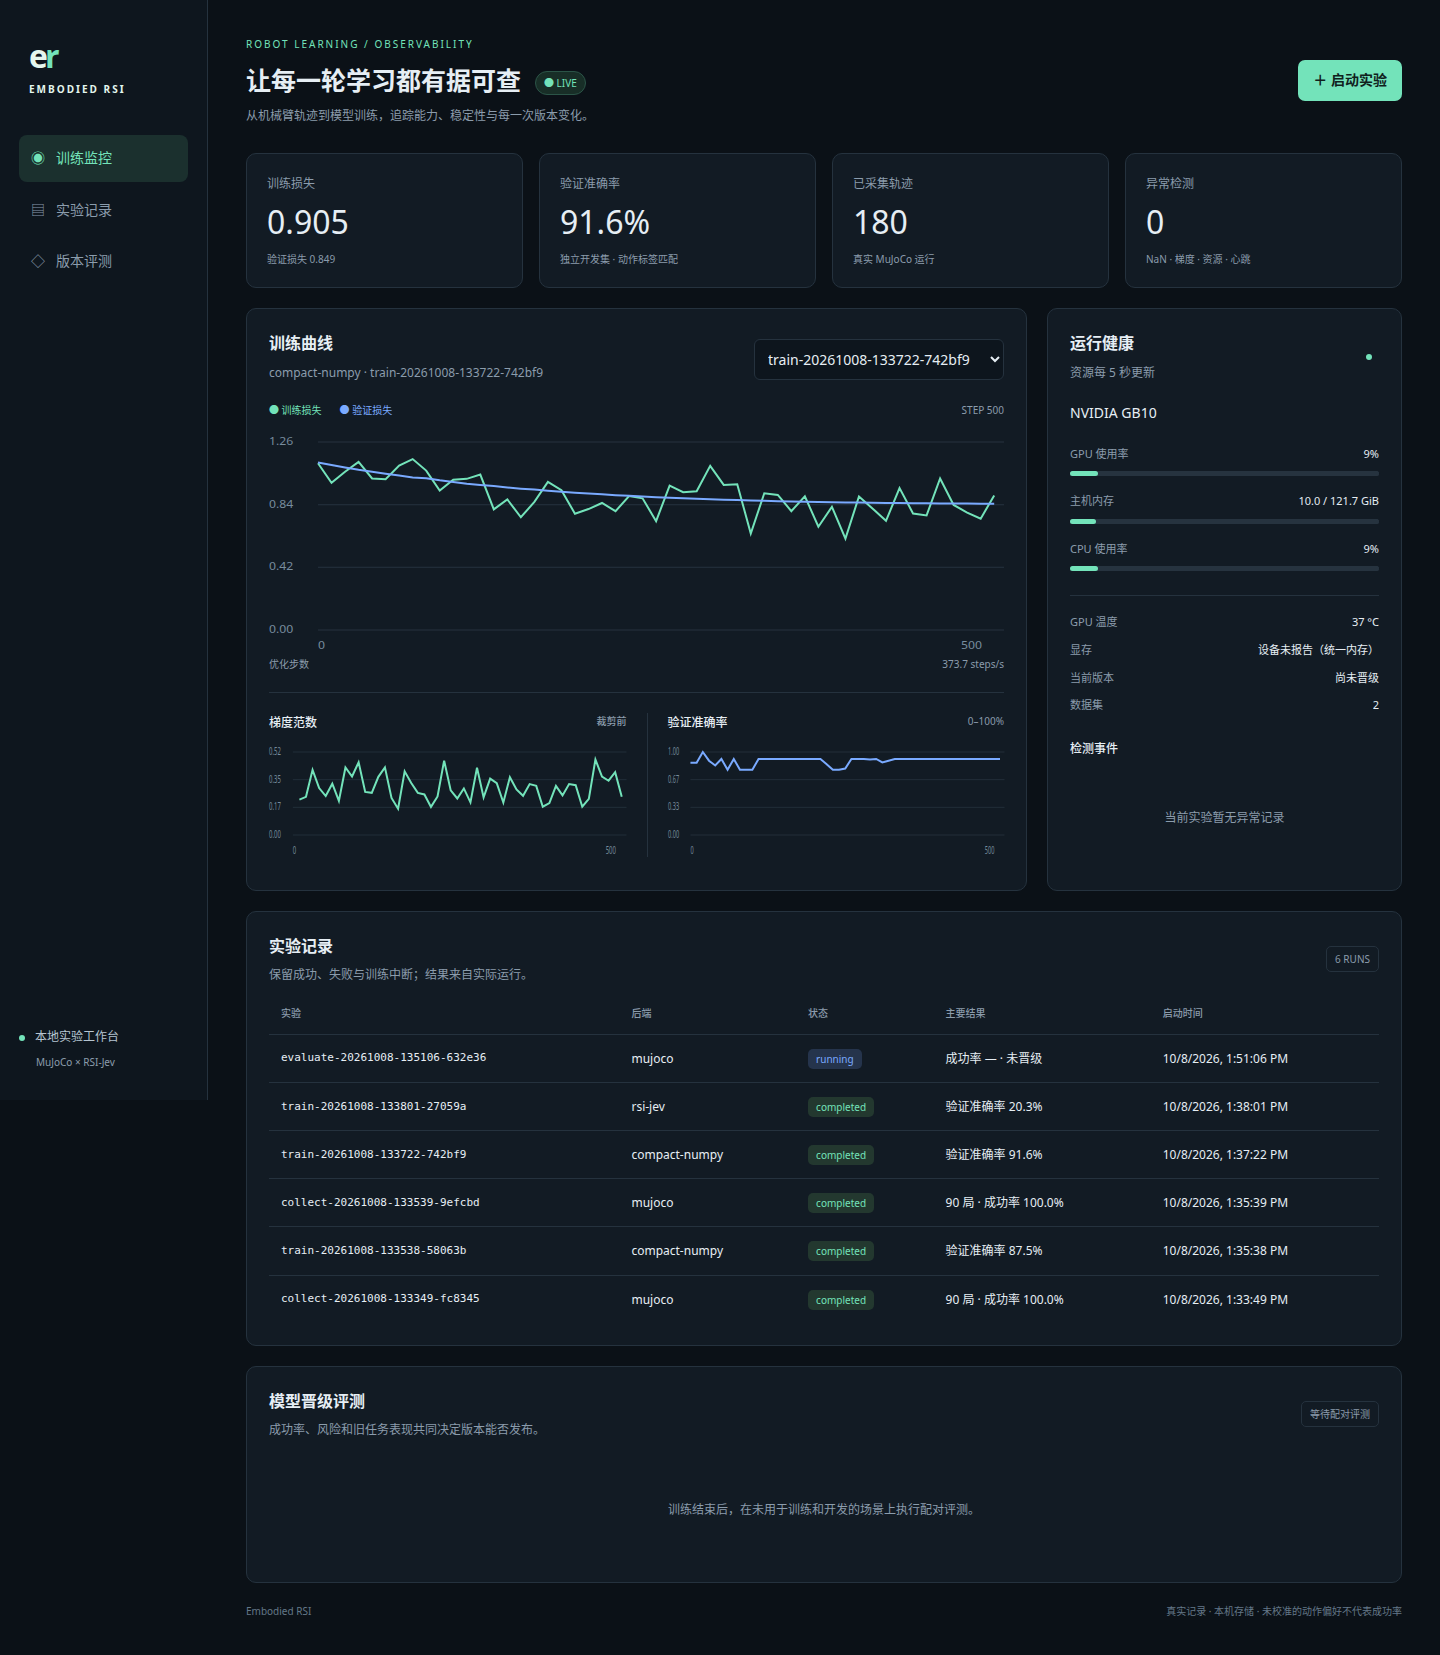
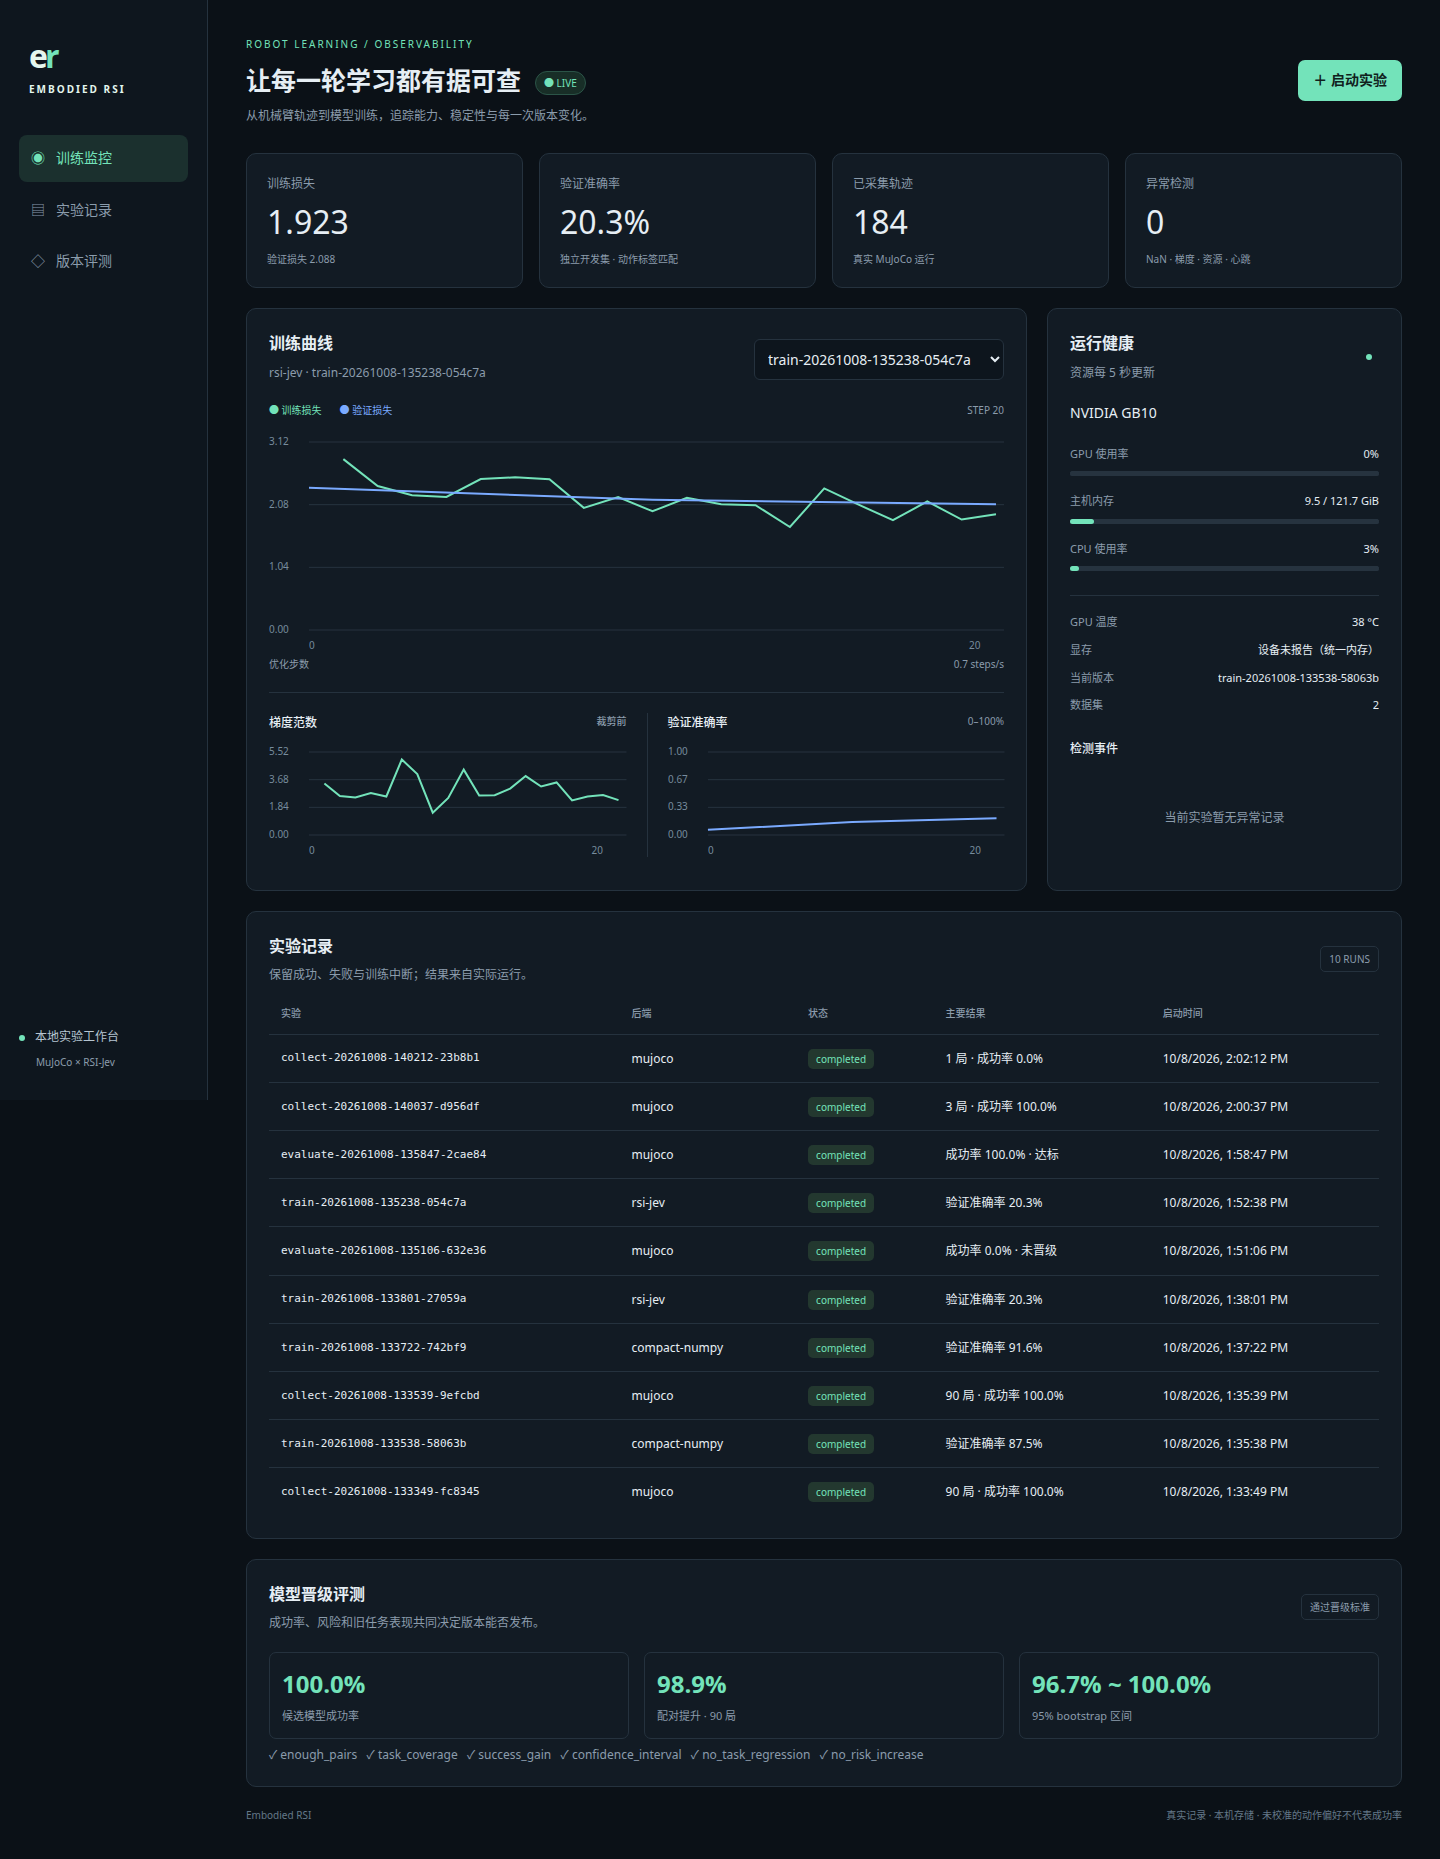
Record paired robot evaluations and verified RSI GPU training

diff --git a/docs/VALIDATION.md b/docs/VALIDATION.md
@@ -21,6 +21,19 @@
 
 第二轮开发集与第一轮不同，不能直接将 87.50% 与 91.62% 当成同一测试集的提升。
 
+## 首版模型与未训练基线：通过晋级
+
+另一组未见场景种子 20000–20029，三任务共 90 对。未训练基线为零权重的 Compact 模型，候选顺序按种子重排。
+
+| 指标 | 未训练基线 | 第一轮 Compact |
+|---|---:|---:|
+| 成功 | 1/90 | 90/90 |
+| 碰撞 | 0 | 0 |
+| 失抓 | 14 | 0 |
+| 动作拒绝 | 70 | 0 |
+
+成功率提升 98.89 个百分点，配对 bootstrap 95% 区间 [96.67, 100] 个百分点。三个任务各 30/30 完成，第一轮模型通过全部门槛，并登记为本机 `champion.json`。这个成绩仅证明小范围结构化状态／固定技能协议中的学习效果。[机器可读报告](results/paired-baseline.json)
+
 ## 第二轮版本的独立任务评测：拒绝晋级
 
 场景种子 10000–10029，每任务 30 个配对，共 90 对；相同控制器、候选和 20 步预算。
@@ -33,6 +46,8 @@
 | 碰撞 / 失抓 / 拒绝 | 0 / 0 / 0 | 0 / 0 / 0 |
 
 配对提升 -100 个百分点，bootstrap 95% 区间 [-100, -100] 个百分点。候选违反成功率及旧任务退化门槛，**未晋级**。
+
+[机器可读失败报告](results/paired-regression.json)
 
 主要失败模式：到达物体上方后选择抓取，没有先下降；空抓后重复抓取直到停滞。这个结果说明一步标签准确率不足以替代任务级成功率，失败记录必须保留。后续实验应在开发场景做闭环诊断和状态纠正；本组发布场景已被读取，不再用它调参后声称独立验证。
 
@@ -48,12 +63,14 @@
 
 这是训练接口和监控的真实 GPU 冒烟验证，尚未证明该 RSI 模型能完成机器人任务。没有宣称 2B/4B 训练效果，也未沿用父模型校准。
 
+微调检查点随后通过上游 `Decider` 接入真实仿真：一个搬运场景、8 步预算，调用和执行链路正常，任务未完成。这条失败轨迹也保留在本机记录中。[GPU 训练摘要](results/rsi-smoke.json)
+
 ## 自动与浏览器检查
 
 - 12 项 pytest 测试通过：数据分组/校验、跨 split 去重、候选重排一致性、真实监督训练、非有限检测、梯度告警、配对门槛、检查点晋级哈希、dashboard API、三个真实 MuJoCo 单局。
 - Ruff 静态检查通过。
 - Headless Chrome / Playwright：页面无 JavaScript 异常；训练曲线有两条有效 series；实验弹窗可打开；390px 手机视口无页面横向溢出。
 - 通过 dashboard 表单实际启动采集作业，后台退出码 0；三任务各一局，共 3/3 完成，API 返回真实轨迹统计。
-- 安装脚本在已有固定版本 vendor 目录上运行通过；公开 CI 负责从远端干净安装验证。
+- 安装脚本在已有固定版本 vendor 目录上运行通过；[公开 CI](https://github.com/gaohuan2020/embodied-rsi/actions/runs/37735526554) 的远端干净安装、静态检查和 12 项测试均通过。
 
 原始轨迹、SQLite、权重、完整配对报告和截图在本机忽略的 `artifacts/`，公开仓库只保存说明及 dashboard 预览，不包含凭据或本机配置。
